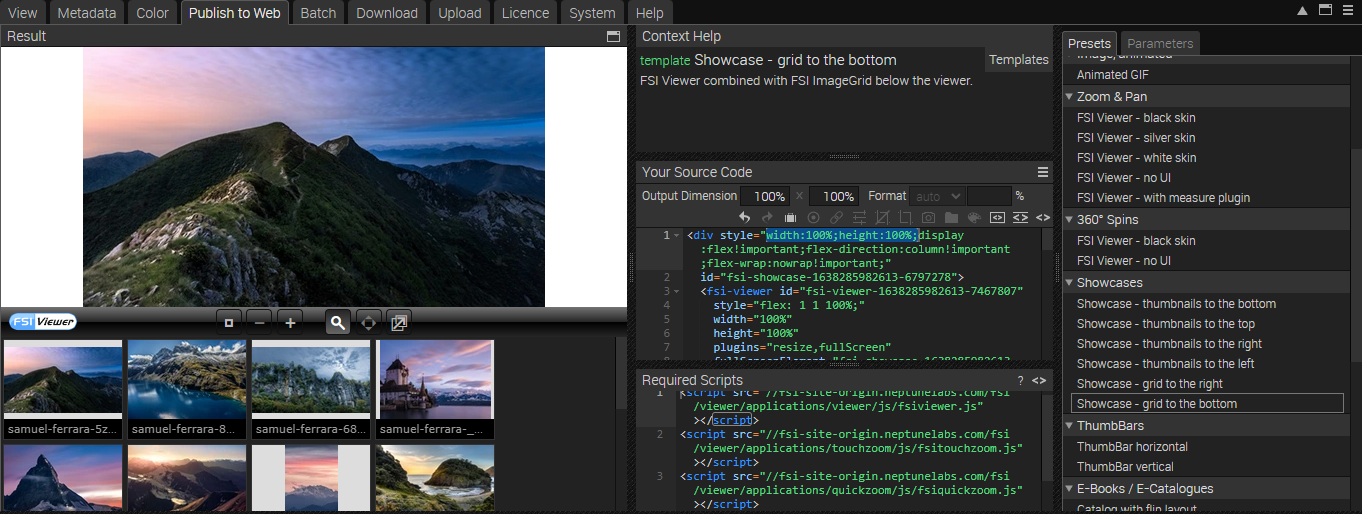
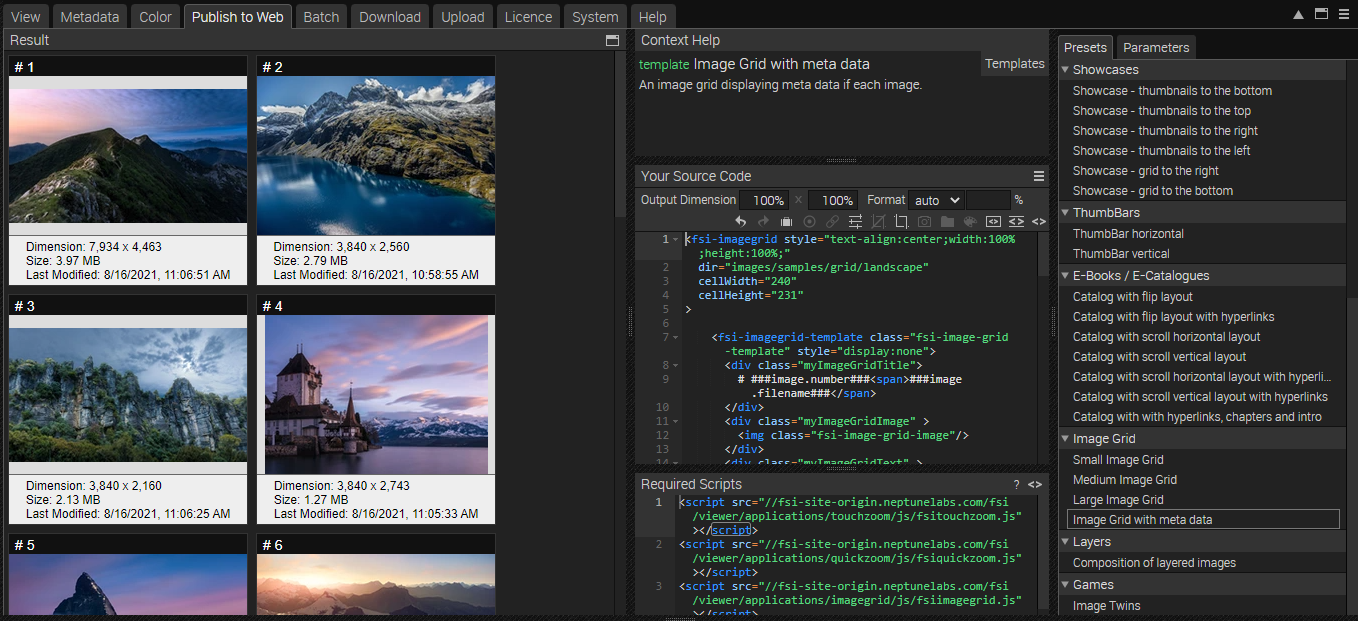
finished readmes

diff --git a/samples/portfolio/README.md b/samples/portfolio/README.md
@@ -1,8 +1,8 @@
 # Portfolio - Using FSI Showcase with metadata
 
-This readme describes how to create a portfolio showcase with FSI Viewer and FSI
-The aim of the demo is to show how you can easily integrate an image grid with metadata and zoom by just adding
-two simple custom tags.
+This readme describes how to create a photographer portfolio showcase with FSI Viewer and FSI ImageGrid.
+The aim of the demo is to show how you can easily integrate an image grid with metadata. If you click on an
+image, a zoom modal opens.
 
 # Add your images/ assets to FSI Server
 
@@ -18,90 +18,70 @@ There are several possibilities to upload images into the interface.
 - Choose the Upload tab, click the "Choose files" button to add files to upload to the list. The files will be uploaded to the current folder.
 - Drag & Drop files to the file view or the tree view
 
-# Add Showcase Zoom on the website
+# Add Image Grid on the website
 
-While having an image selected, you can see all possible publishing ways for the specific item by visting the Publish To Web tab.
-For this example, select the preset *Showcase - thumbnails to the left* in the section *Showcases*:
+While having an image or folder selected, you can see all possible publishing ways for the specific item by visting the Publish To Web tab.
+For this example, select one image and use the preset *Image Grid with meta data* in the section *Image Grid* :
 
-![Config Image](readme-show-1.png)
+![Config Image](readme-portfolio-1.png)
+
+This publishes the directory with a custom <fsi-imagegrid> tag and displays a medium image grid with meta data.
+
+
+![Config Image](readme-portfolio-2.png)
 
 The *Source Code* section enables you to control the look of your viewer by setting the dimensions and format, as well as adding effects or crop options to it.
+
+You can set the output dimensions and format (auto automatically chooses the best format for the browser used, or you can set WEBP, JPEG, PNG or GIF).
 In this area you also can see the source code for your selected publishing option which you can edit and copy to publish the images.
-You also see the required scripts which need to be embedded on the site.
 
-![Config Image](readme-show-2.png)
+Here you also see the <fsi-imagegrid> tag which sets the parameters used for the zoom option.
+If you click on the tag, the bar on the right automatically switches to the tab *Parameters*, enabling you to customize the ImageGrid to your liking.
 
-In order to display the Showcase, you only need to add the scripts listed in the **Required Scripts** field
+# Using FSI ImageGrid
+
+In order to display the viewer, you only need to add the corresponding scripts
 to the head of your website:
 
 ```html
-<script src="//fsi-site.neptunelabs.com/fsi/viewer/applications/viewer/js/fsiviewer.js"></script>
-<script src="//fsi-site.neptunelabs.com/fsi/viewer/applications/touchzoom/js/fsitouchzoom.js"></script>
-<script src="//fsi-site.neptunelabs.com/fsi/viewer/applications/thumbbar/js/fsithumbbar.js"></script>
+<script
+  src='https://fsi-site.neptunelabs.com/fsi/viewer/applications/imagegrid/js/fsiimagegrid.js'
+</script>
 ```
-This ensures that the viewers are loaded.
+This ensures that FSI ImageGrid is loaded.
 
-Afterwards, you need to place the tags you see in the Publish section on the place where you would like to see the viewer.
-In our example this will look like this:
+Simply embed the <fsi-imagegrid> tag on the page where you want to display the grid.
+In our example, this looks like this:
 
 ```html
-<div style="width:100%;height:100%;display:flex!important;flex-direction:column!important;flex-wrap:nowrap!important;"
-     id="fsi-showcase-1638202879465-5456242">
-  <fsi-viewer id="fsi-viewer-1638202879466-1436698"
-              style="flex: 1 1 100%;"
-              width="100%"
-              height="100%"
-              skin="white"
-              plugins="resize,fullScreen"
-              fullScreenElement="fsi-showcase-1638202879465-5456242"
-  >
-  </fsi-viewer>
-  <fsi-imagegrid
-    style="flex: 1 1 60%;min-height:140px;"
-    width="100%"
-    height="100%"
-    dir="images/samples/grid/landscape"
-    cellWidth="300"
-    cellHeight="125"
-    useTouchZoom="true"
-    useQuickZoom="false"
-    autoCrop="cc"
-    viewerSelector="#fsi-viewer-1638202879466-1436698"
-  >
+  <fsi-imagegrid style="text-align:center;width:100%;height:100%;"
+                 dir="/images/samples/grid/landscape/"
+                 id="fsi-grid-fit"
+                 cellWidth="300"
+                 cellHeight="325"
+                 useTouchZoom="true"
+                 useQuickZoom="false"
+                 autoCrop="cc"
+                 scroll="false"
+                 debug="true"
+                 onCellClick="openPopUp"
+>
 
-    <fsi-imagegrid-template style="display:none">
-      <div class="myImageGridTitle">
-        <span>###iptc.Caption###, ###iptc.FSI Extra###</span>
-      </div>
-      <div class="myImageGridImage" >
-        <img class="fsi-image-grid-image"/>
-      </div>
-      <div class="myImageGridText" >
-      </div>
-    </fsi-imagegrid-template>
-
-  </fsi-imagegrid>
-
-  <style>
-    fsi-imagegrid .fsi-imagegrid-root .myImageGridTitle{
-      padding:0 4px;
-      font-size:11px;
-      text-align:center;
-      height:20px;
-      line-height:20px!important;
-      background-color:#000;
-      color:#999;
-      overflow:hidden;
-      text-overflow:ellipsis;
-      white-space: nowrap;
-    }
-
-    fsi-imagegrid .fsi-imagegrid-root div.myImageGridImage{
-      height:calc(100% - 20px);
-      background-color:#DDD;
-    }
-  </style>
-</div>
+  <fsi-imagegrid-template style="display:none">
+    <div class="myImageGridTitle">
+      <span>###iptc.Caption###</span>
+    </div>
+    <div class="myImageGridImage" >
+      <img class="fsi-image-grid-image"/>
+    </div>
+    <div class="myImageGridText" >
+					<span>
+						###iptc.FSI Extra###<br/><br/>
+						Foto: ###iptc.Credit###<br/><br/>
+					</span>
+    </div>
+  </fsi-imagegrid-template>
+</fsi-imagegrid>
 ```
 
 For all parameters which can be used, please consult the [manual](https://docs.neptunelabs.com/fsi-viewer/latest/fsi-viewer).
@@ -113,25 +93,29 @@ This is achieved by adding the following part:
 
 ```html
  <fsi-imagegrid-template style="display:none">
-      <div class="myImageGridTitle">
-        <span>###iptc.Caption###, ###iptc.FSI Extra###</span>
-      </div>
-      <div class="myImageGridImage" >
-        <img class="fsi-image-grid-image"/>
-      </div>
-      <div class="myImageGridText" >
-      </div>
-    </fsi-imagegrid-template>
+  <div class="myImageGridTitle">
+    <span>###iptc.Caption###</span>
+  </div>
+  <div class="myImageGridImage" >
+    <img class="fsi-image-grid-image"/>
+  </div>
+  <div class="myImageGridText" >
+					<span>
+						###iptc.FSI Extra###<br/><br/>
+						Foto: ###iptc.Credit###<br/><br/>
+					</span>
+  </div>
+</fsi-imagegrid-template>
 ```
 
-The div with the ImageGrid Title contains the metadata Caption and FSI Extra.
+The div with the ImageGrid Title contains the metadata Caption, while the div with the class myImageGridText contains FSI Extra and the Credit.
 In order to add this metadata, go to the tab *Metadata* and click on the three tiles on the right, selecting **Add fields**:
 
 ![Config Image](readme-portfolio-3.png)
 
 Tip: if you do this with multiple images selected, the fields will be added to them, making it more convenient.
 
-We have added Caption and FSI Extra to it:
+We have added Caption, Credit and FSI Extra to it:
 
 ![Config Image](readme-portfolio-4.png)
 

diff --git a/samples/productgrid/README.md b/samples/productgrid/README.md
@@ -13,7 +13,7 @@ You can install a [demo version](https://www.neptunelabs.com/get/) via Docker or
 
 There are several possibilities to upload images into the interface.
 
-![Config Image](readme-thumb.png)
+![Config Image](readme-grid.png)
 
 - Choose the Upload tab, click the "Choose files" button to add files to upload to the list. The files will be uploaded to the current folder.
 - Drag & Drop files to the file view or the tree view
@@ -34,16 +34,16 @@ You can set the output dimensions and format (auto automatically chooses the bes
 In this area you also can see the source code for your selected publishing option which you can edit and copy to publish the images.
 
 Here you also see the <fsi-imagegrid> tag which sets the parameters used for the zoom option.
-If you click on the tag, the bar on the right automatically switches to the tab *Parameters*, enabling you to customize the ThumbBar to your liking.
+If you click on the tag, the bar on the right automatically switches to the tab *Parameters*, enabling you to customize the ImageGrid to your liking.
 
 ![Config Image](readme-grid-3.png)
 
-For all parameters which can be used, please consult the [manual](https://docs.neptunelabs.com/fsi-viewer/latest/fsi-thumbbar).
+For all parameters which can be used, please consult the [manual](https://docs.neptunelabs.com/fsi-viewer/latest/fsi-imagegrid).
 
 
 # Using FSI ImageGrid
 
-In order to displaythe viewer, you only need to add the corresponding scripts
+In order to display the viewer, you only need to add the corresponding scripts
 to the head of your website:
 
 ```html
@@ -51,48 +51,22 @@ to the head of your website:
   src='https://fsi-site.neptunelabs.com/fsi/viewer/applications/imagegrid/js/fsiimagegrid.js'
 </script>
 ```
-This ensures that FSI ThumbBar is loaded.
+This ensures that FSI ImageGrid is loaded.
 
-Simply embed an FSI ThumbBar tag on the page where you want to display the thumb bar.
+Simply embed the <fsi-imagegrid> tag on the page where you want to display the grid.
 In our example, this looks like this:
 
 ```html
-    <fsi-thumbbar
-  width="100%"
-  height="300px"
-  imagesources="images/samples/ssi/furniture/nathan-oakley-boFO5uIUKUU-unsplash.jpg, images/samples/ssi/furniture/nathan-oakley-CYfb0qyQ6WM-unsplash.jpg, 	images/samples/ssi/furniture/nathan-oakley-kfIN3cGA5xE-unsplash.jpg, 	images/samples/ssi/furniture/nathan-oakley-OngbrOmqtzc-unsplash.jpg, 	images/samples/ssi/furniture/nathan-oakley-ReWaWXpLnP8-unsplash.jpg, images/samples/ssi/furniture/nathan-oakley-S_jZAOH1Zwg-unsplash.jpg"
-  vertical="false"
-  elementWidth="250px"
-  elementSpacing="6px"
-  alignment="0.5"
-  paddingTop="0"
-  paddingBottom="0"
-  autoCrop="cc"
-  scrollBar="false"
-  id="fsi-thumbs"
-  thumbLabel="###iptc.Headline### <br/>###iptc.Caption### <br/>###iptc.FSI Extra###"
-  enableZoom="false"
+<fsi-imagegrid style="text-align:center;width:100%; height:1000px;"
+               dir="images/samples/grid/colour"
+               cellWidth="220"
+               cellHeight="220"
+               preloadCount="60"
+               autoCrop="cc"
+               scroll="false"
 >
-</fsi-thumbbar>
+</fsi-imagegrid>
 ```
-## Adding Meta Data to images
-
-In our example we have displayed some labels beneath the thumb bar.
-This is achieved by adding the following parameter: **thumbLabel="###iptc.Headline### <br/>###iptc.Caption### <br/>###iptc.FSI Extra###"**
-
-In order to add metadata, go to the tab *Metadata* and click on the three tiles on the right, selecting **Add fields**:
-
-![Config Image](readme-thumb-3.png)
-
-Tip: if you do this with multiple images selected, the fields will be added to them, making it more convenient.
-
-We have added Headlines, Caption and FSI Extra to it:
-
-![Config Image](readme-thumb-4.png)
-
-You can then type in all the information you want to display in the fields:
-
-![Config Image](readme-thumb-5.png)
 
 ## Testing with examples from your own server
 
